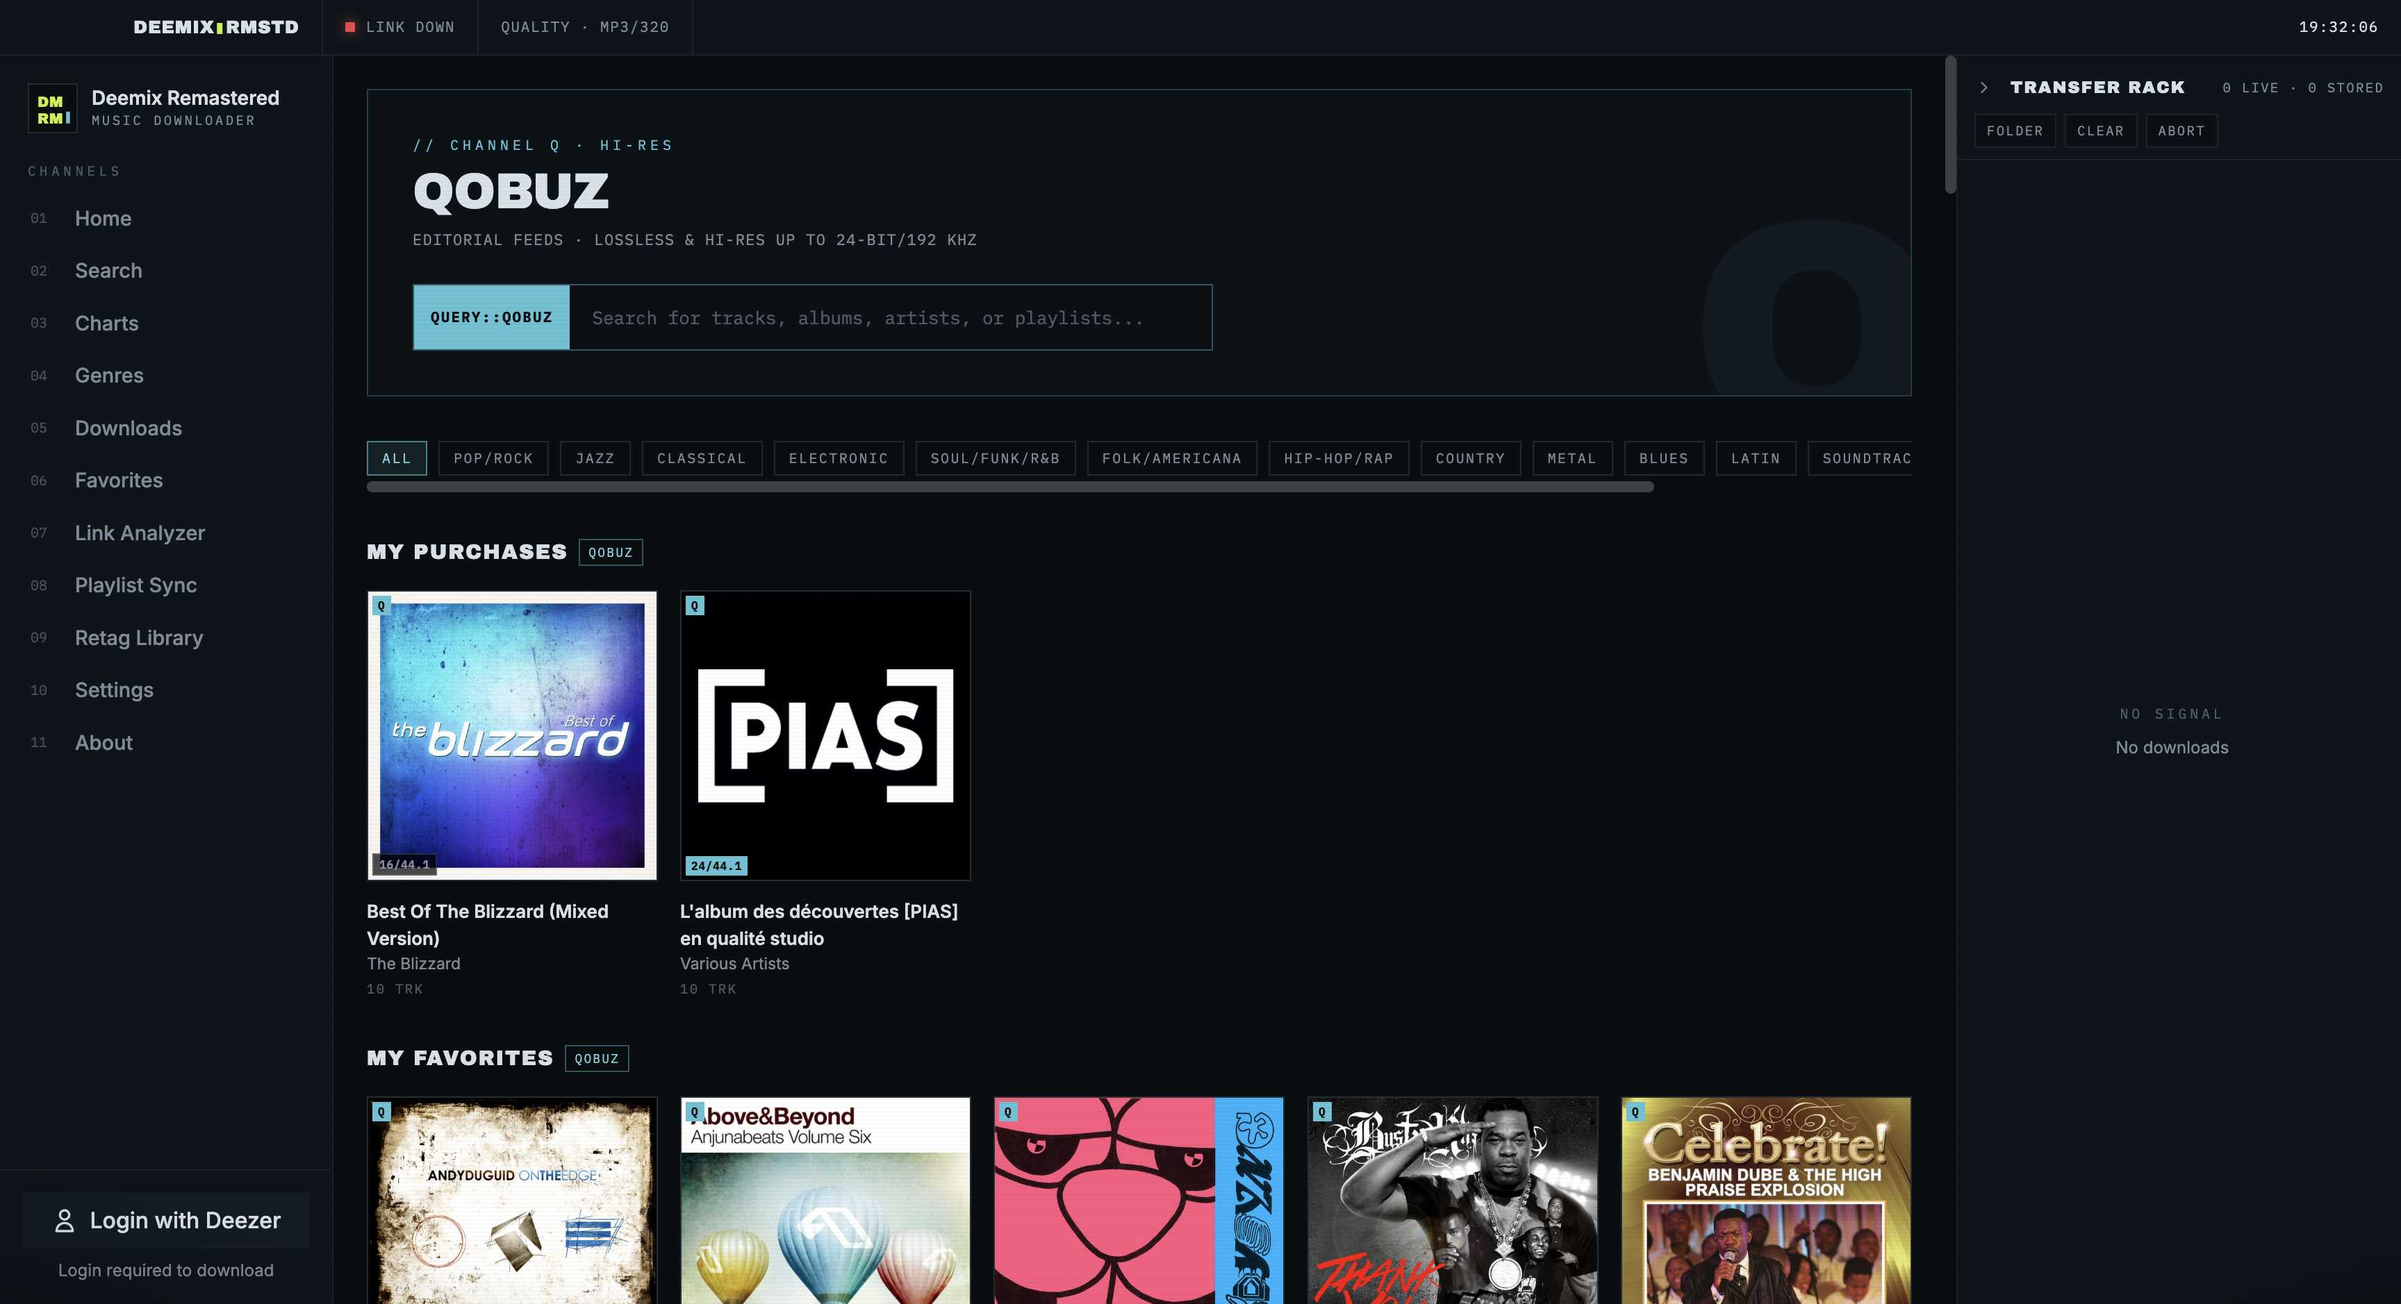
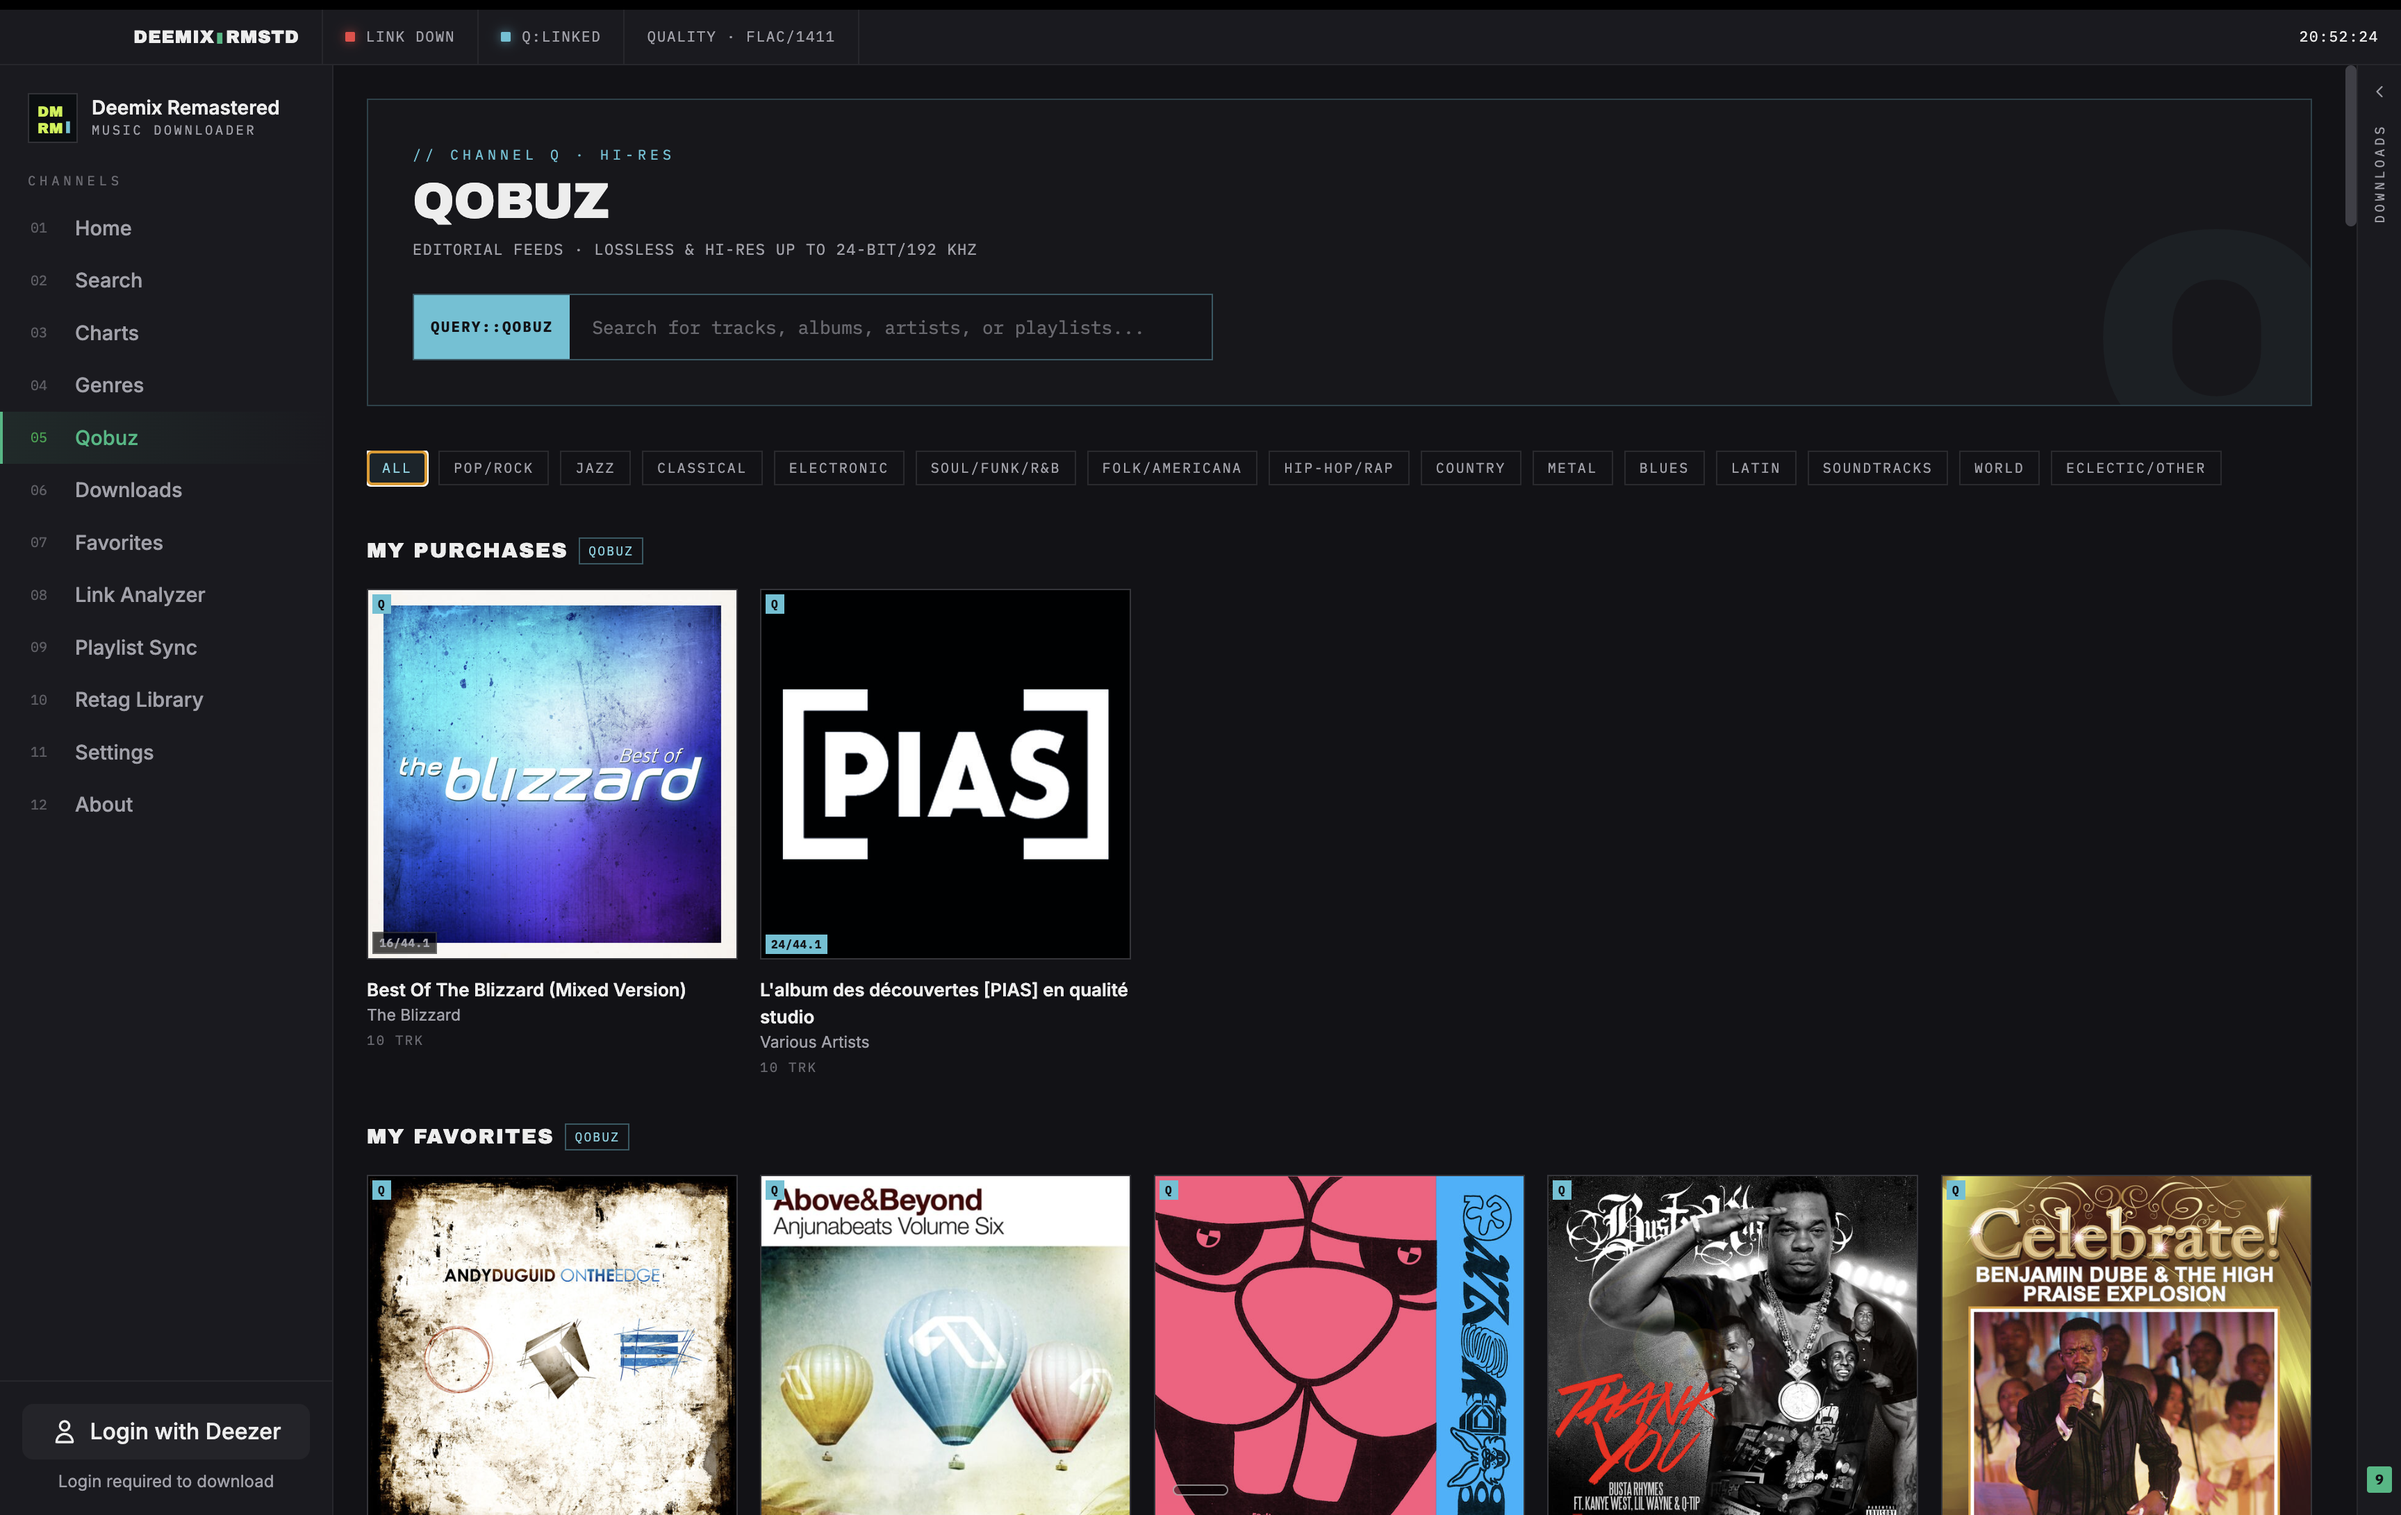
docs: replace screenshot gallery with operator-supplied captures from the live 2.1.0 app
Eight fresh in-app screenshots (Home with a stacked Transfer Rack, Search
with the source toggle, Charts, Genres, Channel Q, Downloads with
delivered-quality chips, Favorites, Settings) in the supplied order.
Superseded captures removed — the gallery and the folder are 1:1.

diff --git a/README.md b/README.md
@@ -164,67 +164,49 @@ Arabic, Chinese (Simplified & Traditional), Croatian, English, Filipino, French,
 <p align="center">
   <img src="docs/screenshots/home-new-releases.png" alt="Home - New Releases" width="800" />
   <br />
-  <em>Home — The Signal Deck console: dated new releases and charts under the live status-strip title bar, with the Transfer Rack on the right</em>
+  <em>Home — The Signal Deck console: dated new releases under the live status-strip title bar, with the Transfer Rack stacking finished hi-res albums on the right</em>
 </p>
 
 <p align="center">
-  <img src="docs/screenshots/downloads-statistics.png" alt="Downloads & Statistics Dashboard" width="800" />
+  <img src="docs/screenshots/search-qobuz.png" alt="Search - Acquisition Console" width="800" />
   <br />
-  <em>Downloads — Status edge-lights, mono telemetry, and per-album completion, with the statistics dashboard one click away</em>
+  <em>Search — The acquisition console with the Deezer/Qobuz source toggle (v2.1.0): pull the signal down from either catalog</em>
 </p>
 
 <p align="center">
-  <img src="docs/screenshots/favorites-artists.png" alt="Favorites - Favorite Artists" width="800" />
+  <img src="docs/screenshots/charts.png" alt="Charts - Top 100 Worldwide" width="800" />
   <br />
-  <em>Favorites — Your Deezer favorites imported in one click; pin any artist or playlist to sync, download anything with GET ↓</em>
-</p>
-
-<p align="center">
-  <img src="docs/screenshots/qobuz-channel-q.png" alt="Channel Q - Qobuz Discover" width="800" />
-  <br />
-  <em>Channel Q (v2.1.0) — The Qobuz discover tab: your Purchases and Favorites with quality badges (16/44.1, 24/44.1…), editorial feeds, and genre filter chips</em>
-</p>
-
-<p align="center">
-  <img src="docs/screenshots/artist-qobuz.png" alt="Qobuz Artist Page" width="800" />
-  <br />
-  <em>Qobuz artist pages (v2.1.0) — Full discographies with release-type tabs (Albums / EPs / Singles / Compilations), latest-release spotlight, and GET ↓ buttons</em>
-</p>
-
-<p align="center">
-  <img src="docs/screenshots/search-qobuz.png" alt="Search - Qobuz Source" width="800" />
-  <br />
-  <em>Search (v2.1.0) — The Deezer/Qobuz source toggle: search Qobuz's catalog natively, with full pagination across tracks, albums, artists, and playlists</em>
+  <em>Charts — Global and country-specific Top 100s for tracks, albums, artists, and playlists, with GET ↓ on every row</em>
 </p>
 
 <p align="center">
   <img src="docs/screenshots/genres-deezer.png" alt="Genres - Deezer Browse" width="800" />
   <br />
-  <em>Genres (v2.1.0) — Deezer editorial picks and charts by genre, from Pop to Salsa</em>
+  <em>Genres (v2.1.0) — Deezer editorial picks and charts by genre, from Pop to Traditional Mexicano</em>
 </p>
 
 <p align="center">
-  <img src="docs/screenshots/link-analyzer.png" alt="Link Analyzer - LINK command bar" width="800" />
+  <img src="docs/screenshots/qobuz-channel-q.png" alt="Channel Q - Qobuz Discover" width="800" />
   <br />
-  <em>Link Analyzer — Paste any Deezer, Spotify, or Qobuz URL into the LINK command bar for full metadata and one-click downloads</em>
+  <em>Channel Q (v2.1.0) — The Qobuz tab: your Purchases and Favorites with quality badges (16/44.1, 24/44.1…), editorial feeds, and genre filter chips</em>
 </p>
 
 <p align="center">
-  <img src="docs/screenshots/playlist-sync-artists.png" alt="Playlist Sync - Synced Artists" width="800" />
+  <img src="docs/screenshots/downloads.png" alt="Downloads - Completed Hi-Res Albums" width="800" />
   <br />
-  <em>Playlist &amp; Artist Sync — Pin playlists and artists to sync on a schedule; per-artist status badges, filters, and live progress</em>
+  <em>Downloads — Per-album completion with delivered-quality chips (FLAC 16/44.1, 24/44.1, 24/48…), status edge-lights, and the statistics dashboard one click away</em>
 </p>
 
 <p align="center">
-  <img src="docs/screenshots/settings-qobuz.png" alt="Settings - Qobuz Connect" width="800" />
+  <img src="docs/screenshots/favorites.png" alt="Favorites - Favorite Albums" width="800" />
   <br />
-  <em>Settings → Qobuz (v2.1.0) — One-click account connect via a real Qobuz login window; your session is stored encrypted, never in files</em>
+  <em>Favorites — Your imported Deezer favorites, tabbed by tracks, albums, artists, and playlists</em>
 </p>
 
 <p align="center">
   <img src="docs/screenshots/settings-profiles.png" alt="Settings - Profiles & Appearance" width="800" />
   <br />
-  <em>Settings — Quick presets, custom profiles, export/import, and 9 color themes including the Signal default</em>
+  <em>Settings — Quick presets, custom profiles, export/import, and 9 color themes across dark, light, and system modes</em>
 </p>
 
 ---
